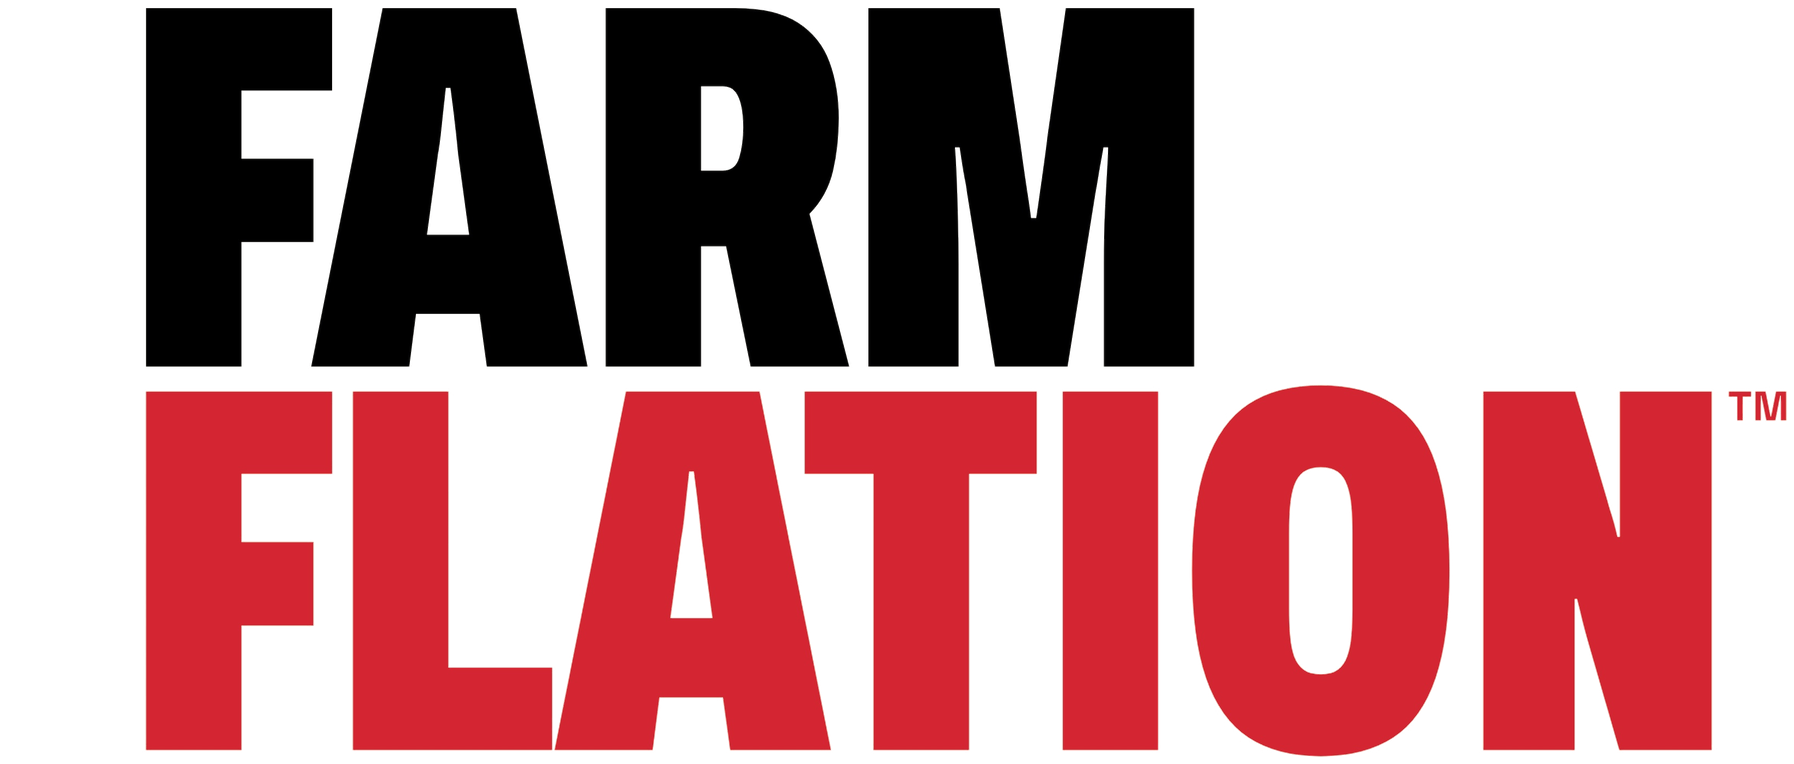
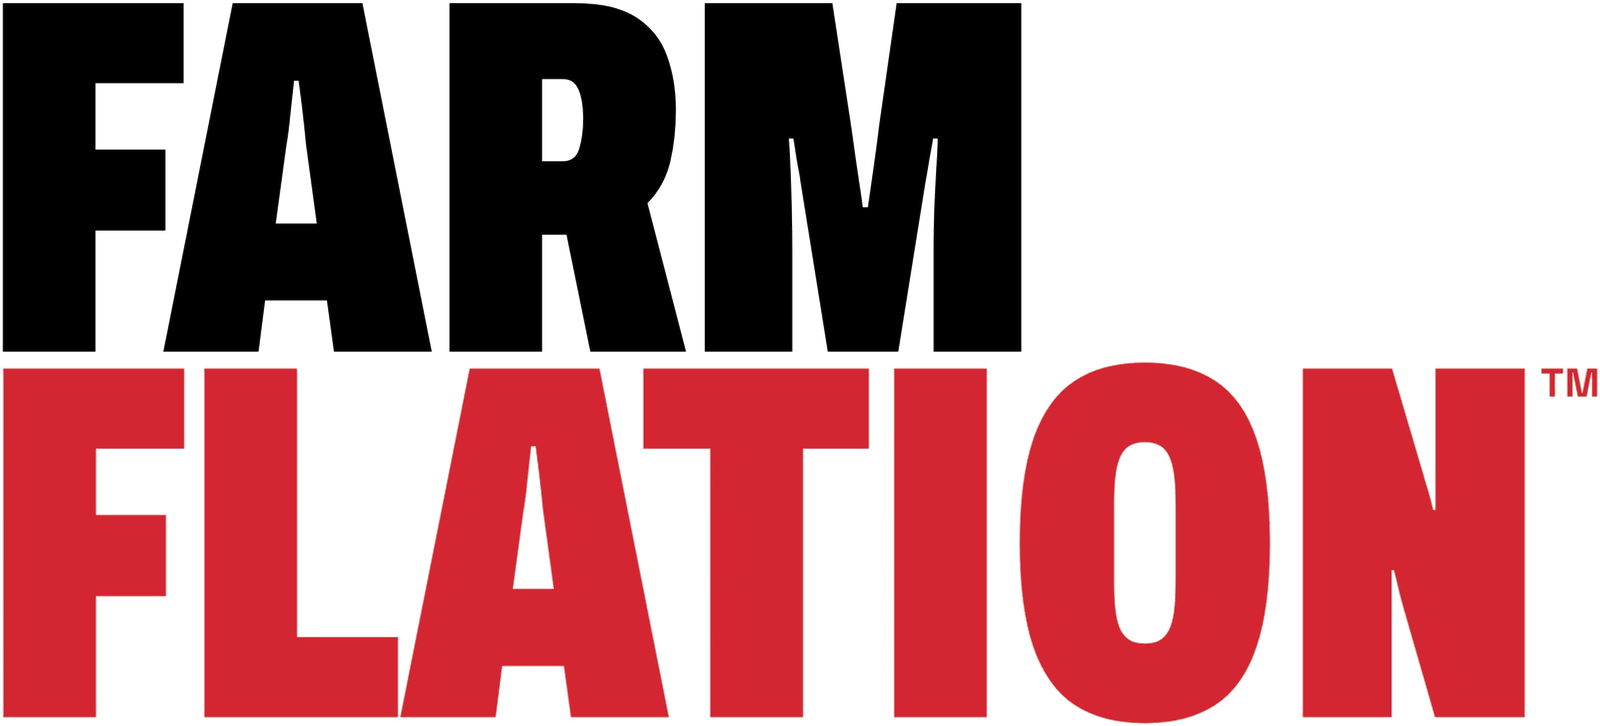
Alinear FARM/FLATION a la izquierda y usar el wordmark real tambien en el menu
- El wordmark del hero tenia relleno de sobra a la izquierda (quedo
  de un recorte con pad parejo pero sin recortar al bbox real de la
  tinta); ahora FARM y FLATION se recortan de forma ajustada y
  quedan exactamente en el mismo eje que "PABLO FUCHSBERGER", el
  subtitulo y la linea roja de la cita.
- Nuevo asset farmflation-wordmark-inline.png: FARM + FLATION en
  una sola linea (misma tipografia extraida del PDF de tapa),
  reemplazando el logo de texto del menu (que usaba Archivo a 900,
  ancho, no el narrow real del libro).
- Se saca el peso Archivo 800/900 de Google Fonts y la variable
  --display-black, que ya no se usan en ningun lado.

diff --git a/es/index.html b/es/index.html
@@ -37,8 +37,8 @@
 
 <link rel="preconnect" href="https://fonts.googleapis.com">
 <link rel="preconnect" href="https://fonts.gstatic.com" crossorigin>
-<link href="https://fonts.googleapis.com/css2?family=Archivo:wght@800;900&family=Archivo+Narrow:wght@400;500;600;700&family=Space+Grotesk:wght@400;500;600;700&display=swap" rel="stylesheet">
-<link rel="stylesheet" href="../assets/css/style.css?v=27">
+<link href="https://fonts.googleapis.com/css2?family=Archivo+Narrow:wght@400;500;600;700&family=Space+Grotesk:wght@400;500;600;700&display=swap" rel="stylesheet">
+<link rel="stylesheet" href="../assets/css/style.css?v=28">
 
 <script type="application/ld+json">
 {
@@ -68,7 +68,7 @@
 <header class="site-header">
   <div class="wrap">
     <div class="brand">
-      <a href="index.html" class="logo">FARM<em>FLATION</em><sup style="font-size:0.35em; align-self:center; display:inline-block;">TM</sup></a>
+      <a href="index.html" class="logo"><img src="../assets/img/farmflation-wordmark-inline.png" alt="Farmflation™" width="1200" height="167"></a>
       <a href="https://www.instagram.com/farmflation" target="_blank" rel="noopener" aria-label="Instagram" class="brand-social">
         <svg viewBox="0 0 48 48" xmlns="http://www.w3.org/2000/svg"><rect x="3" y="3" width="42" height="42" rx="12" fill="none" stroke="currentColor" stroke-width="3"></rect><circle cx="24" cy="24" r="11" fill="none" stroke="currentColor" stroke-width="3"></circle><circle cx="36" cy="12" r="2.5" fill="currentColor"></circle></svg>
       </a>
@@ -98,7 +98,7 @@
     <div class="wrap">
       <div class="hero-copy">
         <p class="eyebrow">Pablo Fuchsberger</p>
-        <h1 class="wordmark"><img src="../assets/img/farmflation-wordmark.png" alt="Farmflation™" width="1794" height="764"></h1>
+        <h1 class="wordmark"><img src="../assets/img/farmflation-wordmark.png" alt="Farmflation™" width="1600" height="726"></h1>
         <p class="hero-sub">Cómo sembrar activos y protegernos de la inflación</p>
         <p class="hero-tagline">«Su patrimonio está sembrado sobre un campo inflacionario. Este libro trata sobre qué plantar.»</p>
         <div class="hero-actions">

diff --git a/index.html b/index.html
@@ -37,8 +37,8 @@
 
 <link rel="preconnect" href="https://fonts.googleapis.com">
 <link rel="preconnect" href="https://fonts.gstatic.com" crossorigin>
-<link href="https://fonts.googleapis.com/css2?family=Archivo:wght@800;900&family=Archivo+Narrow:wght@400;500;600;700&family=Space+Grotesk:wght@400;500;600;700&display=swap" rel="stylesheet">
-<link rel="stylesheet" href="assets/css/style.css?v=27">
+<link href="https://fonts.googleapis.com/css2?family=Archivo+Narrow:wght@400;500;600;700&family=Space+Grotesk:wght@400;500;600;700&display=swap" rel="stylesheet">
+<link rel="stylesheet" href="assets/css/style.css?v=28">
 
 <script type="application/ld+json">
 {
@@ -68,7 +68,7 @@
 <header class="site-header">
   <div class="wrap">
     <div class="brand">
-      <a href="#top" class="logo">FARM<em>FLATION</em><sup style="font-size:0.35em; align-self:center; display:inline-block;">TM</sup></a>
+      <a href="#top" class="logo"><img src="assets/img/farmflation-wordmark-inline.png" alt="Farmflation™" width="1200" height="167"></a>
       <a href="https://www.instagram.com/farmflation" target="_blank" rel="noopener" aria-label="Instagram" class="brand-social">
         <svg viewBox="0 0 48 48" xmlns="http://www.w3.org/2000/svg"><rect x="3" y="3" width="42" height="42" rx="12" fill="none" stroke="currentColor" stroke-width="3"></rect><circle cx="24" cy="24" r="11" fill="none" stroke="currentColor" stroke-width="3"></circle><circle cx="36" cy="12" r="2.5" fill="currentColor"></circle></svg>
       </a>
@@ -98,7 +98,7 @@
     <div class="wrap">
       <div class="hero-copy">
         <p class="eyebrow">Pablo Fuchsberger</p>
-        <h1 class="wordmark"><img src="assets/img/farmflation-wordmark.png" alt="Farmflation™" width="1794" height="764"></h1>
+        <h1 class="wordmark"><img src="assets/img/farmflation-wordmark.png" alt="Farmflation™" width="1600" height="726"></h1>
         <p class="hero-sub">How to farm assets and protect yourself from inflation</p>
         <p class="hero-tagline">«Your wealth is already planted in inflationary soil. You can't choose the soil. You can choose what you plant.»</p>
         <div class="hero-actions">

diff --git a/es/articulos.html b/es/articulos.html
@@ -21,15 +21,15 @@
 
 <link rel="preconnect" href="https://fonts.googleapis.com">
 <link rel="preconnect" href="https://fonts.gstatic.com" crossorigin>
-<link href="https://fonts.googleapis.com/css2?family=Archivo:wght@800;900&family=Archivo+Narrow:wght@400;500;600;700&family=Space+Grotesk:wght@400;500;600;700&display=swap" rel="stylesheet">
-<link rel="stylesheet" href="../assets/css/style.css?v=27">
+<link href="https://fonts.googleapis.com/css2?family=Archivo+Narrow:wght@400;500;600;700&family=Space+Grotesk:wght@400;500;600;700&display=swap" rel="stylesheet">
+<link rel="stylesheet" href="../assets/css/style.css?v=28">
 </head>
 <body>
 
 <header class="site-header">
   <div class="wrap">
     <div class="brand">
-      <a href="index.html" class="logo">FARM<em>FLATION</em><sup style="font-size:0.35em; align-self:center; display:inline-block;">TM</sup></a>
+      <a href="index.html" class="logo"><img src="../assets/img/farmflation-wordmark-inline.png" alt="Farmflation™" width="1200" height="167"></a>
       <a href="https://www.instagram.com/farmflation" target="_blank" rel="noopener" aria-label="Instagram" class="brand-social">
         <svg viewBox="0 0 48 48" xmlns="http://www.w3.org/2000/svg"><rect x="3" y="3" width="42" height="42" rx="12" fill="none" stroke="currentColor" stroke-width="3"></rect><circle cx="24" cy="24" r="11" fill="none" stroke="currentColor" stroke-width="3"></circle><circle cx="36" cy="12" r="2.5" fill="currentColor"></circle></svg>
       </a>

diff --git a/articles.html b/articles.html
@@ -21,15 +21,15 @@
 
 <link rel="preconnect" href="https://fonts.googleapis.com">
 <link rel="preconnect" href="https://fonts.gstatic.com" crossorigin>
-<link href="https://fonts.googleapis.com/css2?family=Archivo:wght@800;900&family=Archivo+Narrow:wght@400;500;600;700&family=Space+Grotesk:wght@400;500;600;700&display=swap" rel="stylesheet">
-<link rel="stylesheet" href="assets/css/style.css?v=27">
+<link href="https://fonts.googleapis.com/css2?family=Archivo+Narrow:wght@400;500;600;700&family=Space+Grotesk:wght@400;500;600;700&display=swap" rel="stylesheet">
+<link rel="stylesheet" href="assets/css/style.css?v=28">
 </head>
 <body>
 
 <header class="site-header">
   <div class="wrap">
     <div class="brand">
-      <a href="index.html" class="logo">FARM<em>FLATION</em><sup style="font-size:0.35em; align-self:center; display:inline-block;">TM</sup></a>
+      <a href="index.html" class="logo"><img src="assets/img/farmflation-wordmark-inline.png" alt="Farmflation™" width="1200" height="167"></a>
       <a href="https://www.instagram.com/farmflation" target="_blank" rel="noopener" aria-label="Instagram" class="brand-social">
         <svg viewBox="0 0 48 48" xmlns="http://www.w3.org/2000/svg"><rect x="3" y="3" width="42" height="42" rx="12" fill="none" stroke="currentColor" stroke-width="3"></rect><circle cx="24" cy="24" r="11" fill="none" stroke="currentColor" stroke-width="3"></circle><circle cx="36" cy="12" r="2.5" fill="currentColor"></circle></svg>
       </a>

diff --git a/assets/css/style.css b/assets/css/style.css
@@ -17,7 +17,6 @@
   --shadow: 0 20px 45px rgba(0, 0, 0, 0.12);
   --serif: "Space Grotesk", -apple-system, "Segoe UI", sans-serif;
   --display: "Archivo Narrow", "Arial Narrow", sans-serif;
-  --display-black: "Archivo", "Arial Black", sans-serif;
   --maxw: 1120px;
 }
 
@@ -111,20 +110,13 @@ a { color: inherit; }
   height: 72px;
 }
 .logo {
-  font-family: var(--display-black);
-  font-weight: 900;
-  text-transform: uppercase;
-  font-size: 24px;
-  letter-spacing: 0.5px;
-  color: var(--ink);
-  text-decoration: none;
   display: flex;
-  align-items: baseline;
-  gap: 3px;
+  align-items: center;
 }
-.logo em {
-  font-style: normal;
-  color: var(--red);
+.logo img {
+  display: block;
+  height: 24px;
+  width: auto;
 }
 .brand {
   display: flex;
